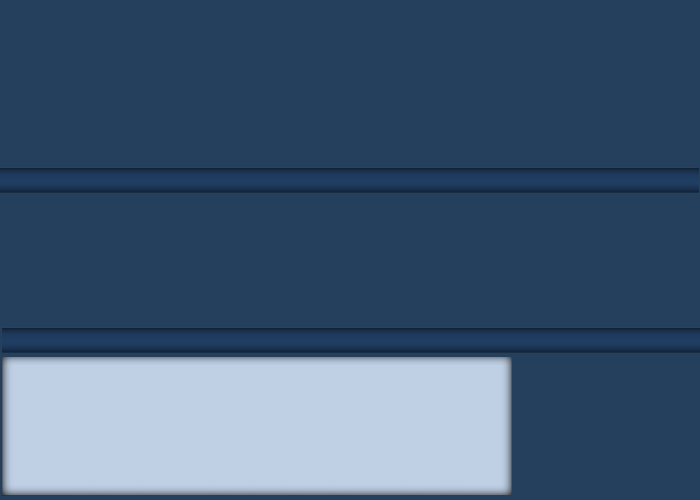
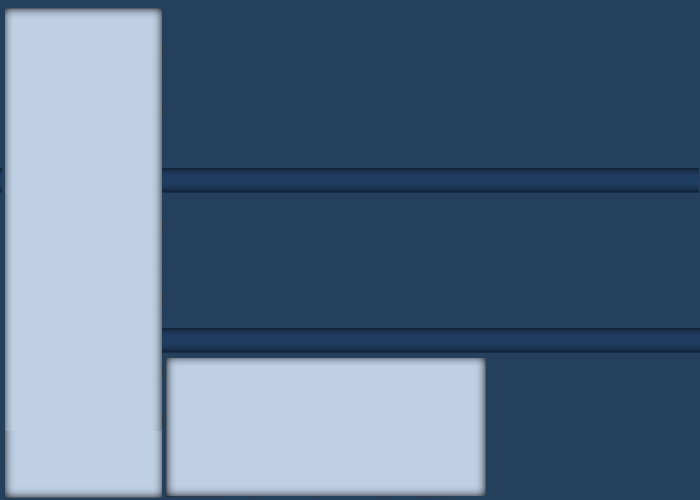
Refactor to new TxtFileHandler class and new table

Changed region(s): [[0.0, 0.0, 0.69, 1.0], [0.66, 0.69, 0.75, 0.99]]

diff --git a/core/src/com/mygdx/deleter/screens/MainScreen.java b/core/src/com/mygdx/deleter/screens/MainScreen.java
@@ -20,6 +20,7 @@ import com.badlogic.gdx.scenes.scene2d.ui.ScrollPane;
 import com.badlogic.gdx.scenes.scene2d.ui.Skin;
 import com.badlogic.gdx.scenes.scene2d.ui.Table;
 import com.mygdx.deleter.DeleterProject;
+import com.mygdx.deleter.ui.TxtFileHandler;
 
 public class MainScreen extends AbstractScreen {
 
@@ -32,14 +33,19 @@ public class MainScreen extends AbstractScreen {
 
 	private Table tableMain;
 	private Table tableInner;
-	private static Table tableScrollable;
-	private static ScrollPane scrollPane;
+	private Table tableMid;
+	private static Table tableLeftScrollable;
+	private static Table tableBottomScrollable;
+	
+	
+	private static ScrollPane scrollPaneLeft;
+	private static ScrollPane scrollPaneBottom;
 
 	public boolean filesLoaded;
 	public static boolean textLoaded;
-	private static List<String> fotoListFromTXT;
+	
 	private static List<String> inputFilesList;
-
+	static int lastIndex;
 	public MainScreen(DeleterProject dp) {
 		super();
 		init();
@@ -48,7 +54,7 @@ public class MainScreen extends AbstractScreen {
 
 	private void test() {
 		for (int i = 1; i < 20; i++) {
-			addMessage("DCM000" + i);
+			addMessageLeftPannel("DCM000" + i);
 		}
 	}
 
@@ -62,111 +68,90 @@ public class MainScreen extends AbstractScreen {
 	}
 
 	public static void initDragNDrop(Lwjgl3ApplicationConfiguration config) {
-
+		
 		config.setWindowListener(new Lwjgl3WindowAdapter() {
 			@Override
 			public void filesDropped(String[] files) {
 				for (String file : files) {
 					Gdx.app.log("FileDropped: ", file);
-
+					lastIndex = file.lastIndexOf("\\")+1;
+					addMessageLeftPannel(file.substring(lastIndex));
 					// If found TXT file with list
 					if (file.toString().contains(".txt")) {
-						addMessage(".TXT file found!");
-						readTxtFile(file);
+						addMessageBottomPannel(".TXT file found!");
+						TxtFileHandler.readTxtFile(file);
 						textLoaded = true;
 					}
 					// Add each drop to arrayList
 					inputFilesList.add(file);
 				}
 				// TODO przerzucic do przycisku
-				makeTXTFile(inputFilesList);
+				TxtFileHandler.makeTXTFile(inputFilesList);
 			}
 		});
 	}
 
-	private static void makeTXTFile(List<String> name) {
-		FileWriter writer = null;
-		try {
-			writer = new FileWriter("PhotoList.txt");
-			for (String str : name) {
-				writer.write(str);
-				writer.write("\r\n");
-			}
-			addMessage("PhotoList.txt file made");
-			writer.close();
-		} catch (IOException e) {
-			e.printStackTrace();
-		}
-
+	public static void addMessageLeftPannel(String message) {
+		tableLeftScrollable.add(new Label(message, skin)).left();
+		tableLeftScrollable.row();
+		scrollPaneLeft.layout();
+		scrollPaneLeft.setScrollPercentY(100);
+		scrollPaneLeft.setScrollPercentX(0);
+		scrollPaneLeft.updateVisualScroll(); 
+	}
+	public static void addMessageBottomPannel(String message) {	
+		tableBottomScrollable.add(new Label(message, skin)).left();
+		tableBottomScrollable.row();
+		scrollPaneBottom.layout();
+		scrollPaneBottom.setScrollPercentY(100);
+		scrollPaneBottom.setScrollPercentX(0);
+		scrollPaneBottom.updateVisualScroll(); 
 	}
 
-	private static void readTxtFile(String yourFile) {
-		fotoListFromTXT = new ArrayList<String>();
-		try {
-			FileInputStream fstream_school = new FileInputStream(yourFile);
-			DataInputStream data_input = new DataInputStream(fstream_school);
-			BufferedReader buffer = new BufferedReader(new InputStreamReader(data_input));
-			String str_line;
-			while ((str_line = buffer.readLine()) != null) {
-				str_line = str_line.trim();
-				if ((str_line.length() != 0)) {
-					addMessage("IMG: " + str_line);
-					fotoListFromTXT.add(str_line);
-				}
-			}
-			for (String listaZdjec : fotoListFromTXT) {
-				Gdx.app.log("from TXT: ", listaZdjec);
-			}
-			buffer.close();
-		} catch (IOException e) {
-			e.printStackTrace();
-		}
-
-	}
-
-	private static void addMessage(String message) {
-		skin.getFont("default-font").getData().setScale(0.8f);
-		skin.getFont("default-font").setColor(0, 0, 0, 1);
-		tableScrollable.add(new Label(message, skin)).left();
-		tableScrollable.row();
-		scrollPane.layout();
-		scrollPane.setScrollPercentY(100);
-		scrollPane.setScrollPercentX(0);
-		scrollPane.updateVisualScroll(); 
-		
-	}
 
 	private void initTables() {
 		tableMain = new Table();
 		tableMain.setFillParent(true);
 		tableMain.setDebug(tableDebug);
-		tableMain.top().left().padTop(10f);
+		tableMain.top().left();
 
 		tableInner = new Table(skin);
 		tableInner.setDebug(tableDebug);
 		tableInner.top();
-		/// TOP
-
-		tableInner.add().width(230f).height(145f).padLeft(10f);
-		tableInner.add().width(230f).height(145f).padLeft(45f);
-		tableInner.add(new Image(new Texture("buttons/horizontalRectangleButton.png"))).width(95f).height(145f)
-				.padLeft(65f);
-		tableInner.row();
-		// MID
-		tableInner.add().expandX().height(140f).colspan(3).padTop(35f);
-		tableInner.row();
+		
+		tableMid = new Table(skin);
+		tableMid.setDebug(tableDebug);
+		tableMid.top().left();
 		// ScrollingTable
-		tableScrollable = new Table();
-		tableScrollable.setDebug(false);
-		tableScrollable.top().left();
+				tableLeftScrollable = new Table();
+				tableLeftScrollable.setDebug(false);
+				tableLeftScrollable.top().left();
+				
+				tableBottomScrollable = new Table();
+				tableBottomScrollable.setDebug(false);
+				tableBottomScrollable.top().left();
 
-		scrollPane = new ScrollPane(tableScrollable);
-		scrollPane.setOverscroll(false, false);
+				scrollPaneLeft = new ScrollPane(tableLeftScrollable);
+				scrollPaneLeft.setOverscroll(false, false);
+				
+				scrollPaneBottom = new ScrollPane(tableBottomScrollable);
+				scrollPaneBottom.setOverscroll(false, false);
+				/////////////
+				
+		//Left Collumn
+		tableInner.add(scrollPaneLeft).width(153f).height(485f).padLeft(6f).padTop(10f);
+		//Mid Collumn
+		tableInner.add(tableMid).width(315f).padLeft(10f).left().top();
+		tableMid.add("1").height(170f).expandX().padBottom(10f);
+		tableMid.row();
+		tableMid.add("2").height(145f).expandX().padTop(10f);
+		tableMid.row();
+		tableMid.add(scrollPaneBottom).height(135f).width(315f).padBottom(5f).padTop(25f);
+		
+		//Right Collumn
+		tableInner.add().width(200f);
+		
 
-		// BOT
-		tableInner.add(scrollPane).width(505f).height(135f).colspan(2).padTop(28f);
-		tableInner.add(new Image(new Texture("buttons/smallButton.png"))).width(100f).height(55f).padTop(28f)
-				.padLeft(30f); //
 
 		tableMain.add(tableInner);
 		stage.addActor(tableMain);
@@ -174,6 +159,7 @@ public class MainScreen extends AbstractScreen {
 
 	private void initAtlasSkin() {
 		skin = new Skin(Gdx.files.internal("uiskin.json"), new TextureAtlas(Gdx.files.internal("uiskin.atlas")));
+		skin.getFont("default-font").getData().setScale(0.8f);
 	}
 
 	private void initBackground() {

diff --git a/core/src/com/mygdx/deleter/ui/TxtFileHandler.java b/core/src/com/mygdx/deleter/ui/TxtFileHandler.java
@@ -1,0 +1,58 @@
+package com.mygdx.deleter.ui;
+
+import java.io.BufferedReader;
+import java.io.DataInputStream;
+import java.io.FileInputStream;
+import java.io.FileWriter;
+import java.io.IOException;
+import java.io.InputStreamReader;
+import java.util.ArrayList;
+import java.util.List;
+
+import com.badlogic.gdx.Gdx;
+import com.mygdx.deleter.screens.MainScreen;
+
+public class TxtFileHandler {
+	private static List<String> fotoListFromTXT;
+	
+	public static void makeTXTFile(List<String> name) {
+		FileWriter writer = null;
+		try {
+			writer = new FileWriter("PhotoList.txt");
+			for (String str : name) {
+				writer.write(str);
+				writer.write("\r\n");
+			}
+			MainScreen.addMessageBottomPannel("PhotoList.txt file made");
+			writer.close();
+		} catch (IOException e) {
+			e.printStackTrace();
+		}
+
+	}
+	
+	public static void readTxtFile(String yourFile) {
+		fotoListFromTXT = new ArrayList<String>();
+		try {
+			FileInputStream fstream_school = new FileInputStream(yourFile);
+			DataInputStream data_input = new DataInputStream(fstream_school);
+			BufferedReader buffer = new BufferedReader(new InputStreamReader(data_input));
+			String str_line;
+			while ((str_line = buffer.readLine()) != null) {
+				str_line = str_line.trim();
+				if ((str_line.length() != 0)) {
+					
+					MainScreen.addMessageLeftPannel(str_line);
+					fotoListFromTXT.add(str_line);
+				}
+			}
+			for (String listaZdjec : fotoListFromTXT) {
+				Gdx.app.log("from TXT: ", listaZdjec);
+			}
+			buffer.close();
+		} catch (IOException e) {
+			e.printStackTrace();
+		}
+
+	}
+}
